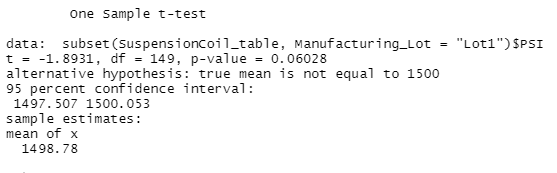
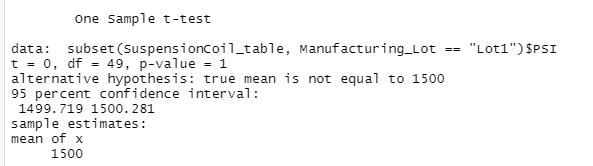
Deliverable 3

Changed region(s): [[0.0, 0.2108, 0.9767, 0.9639], [0.1221, 0.0301, 0.3662, 0.1506], [0.0305, 0.994, 0.061, 1.0]]

diff --git a/README.md b/README.md
@@ -24,12 +24,26 @@ The design specifications for the MechaCar suspension coils dictate that the var
 
 The variance of 62.29 falls within an acceptable value due to being lower than 100.
 
+
+![Lot Variance](https://github.com/drewabramo12/working_with_R/blob/main/Resources/Lot_Var.PNG)
+
+By looking at each individual lot however we see that Lot 3 does have a variance 170 which is higher than the acceptable level of 100. All other lots were far below 100.
+
 ## T-Tests on Suspension Coils
 
 ![Ttest](https://github.com/drewabramo12/working_with_R/blob/main/Resources/ttest.PNG)
 
+The cumulative lots were not significant with a p-value of 0.06.
+
 ![Lot1 Ttest](https://github.com/drewabramo12/working_with_R/blob/main/Resources/Lot1.PNG)
+
+Lot 1's population was not significant with a p-value of 0.06.
 
 ![Lot2 Ttest](https://github.com/drewabramo12/working_with_R/blob/main/Resources/Lot2.PNG)
 
+Lot 2's population was not significant with a p-value of 0.06.
+
 ![Lot3 Ttest](https://github.com/drewabramo12/working_with_R/blob/main/Resources/Lot3.PNG)
+
+Lot 3's population was significant with a p-value of 0.04.
+
